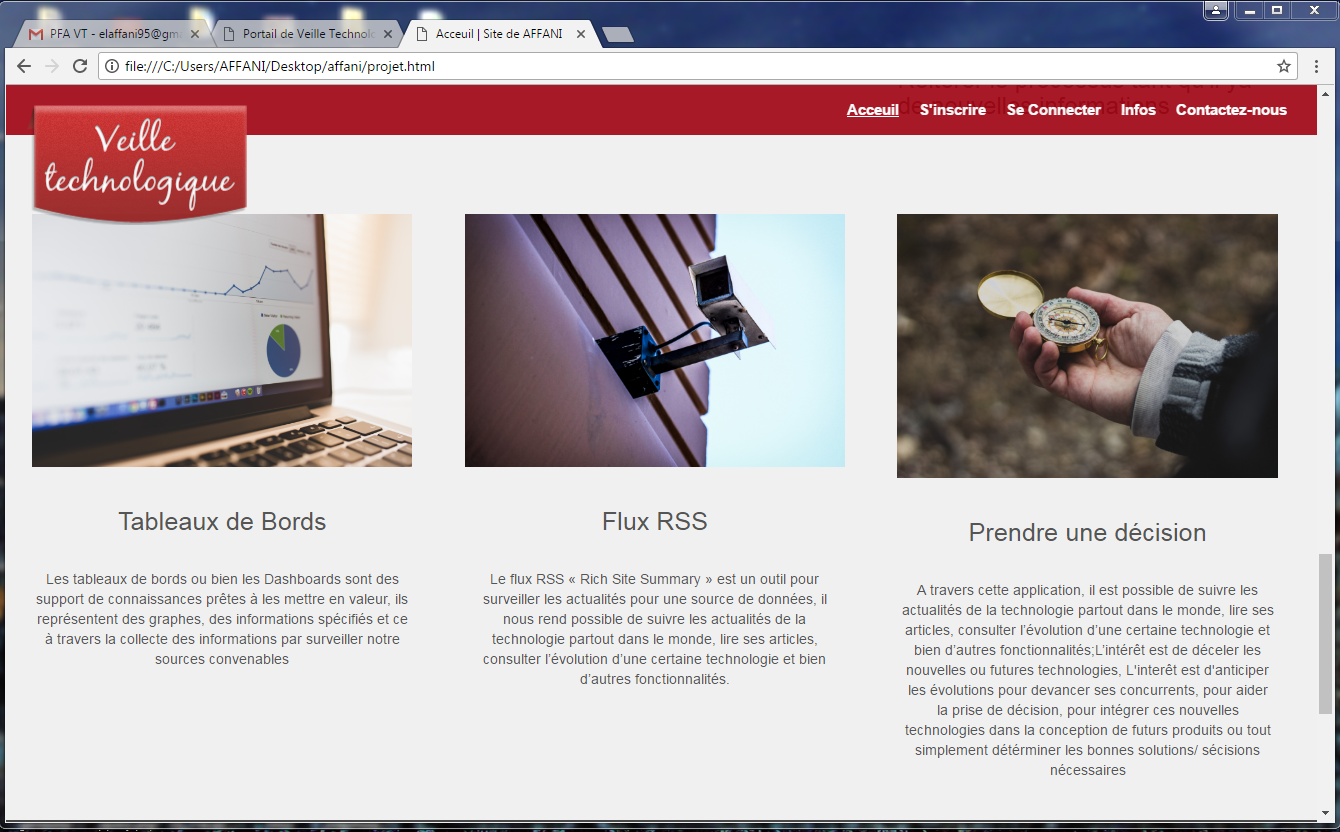
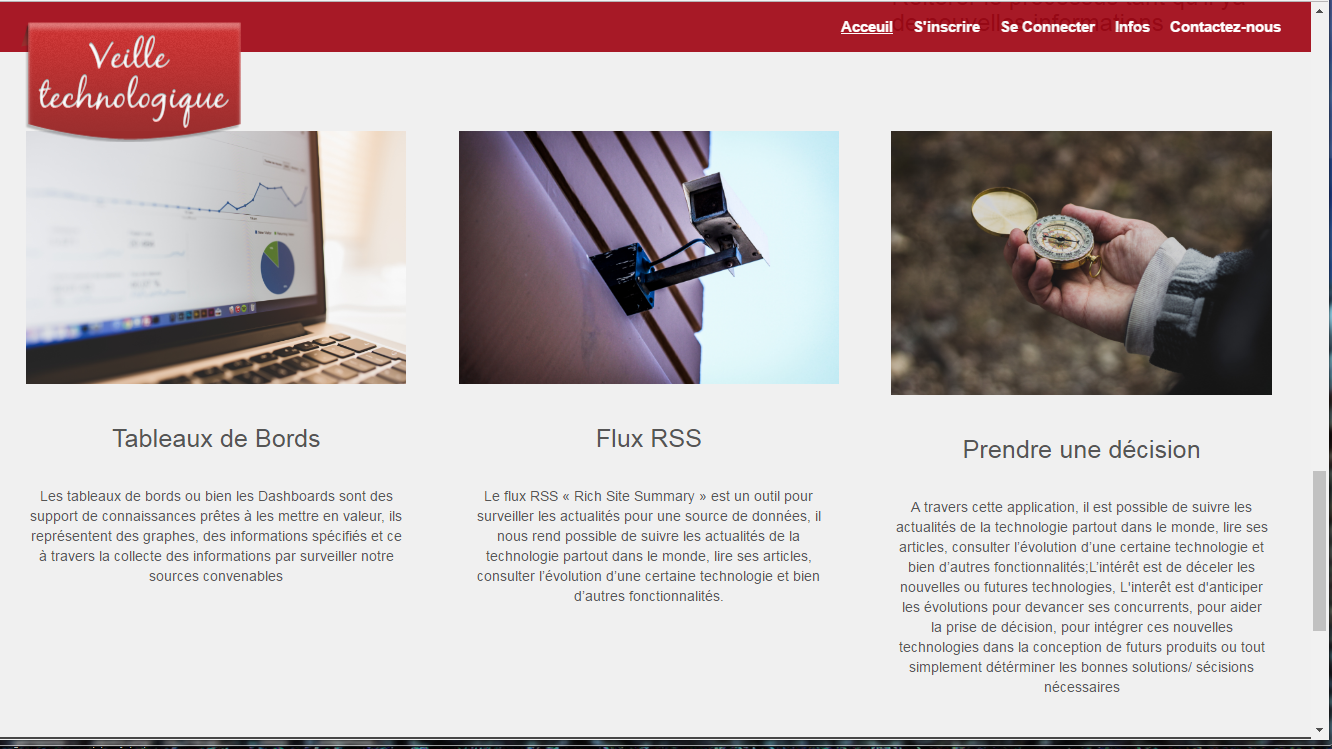
change pfa demo pic

diff --git a/content/featured/PFA/index.md b/content/featured/PFA/index.md
@@ -1,7 +1,7 @@
 ---
 date: "1"
 title: "Technology watch portal (Veille technologique)"
-cover: "./14.png"
+cover: "./5.png"
 github: ""
 external: ""
 tech:
